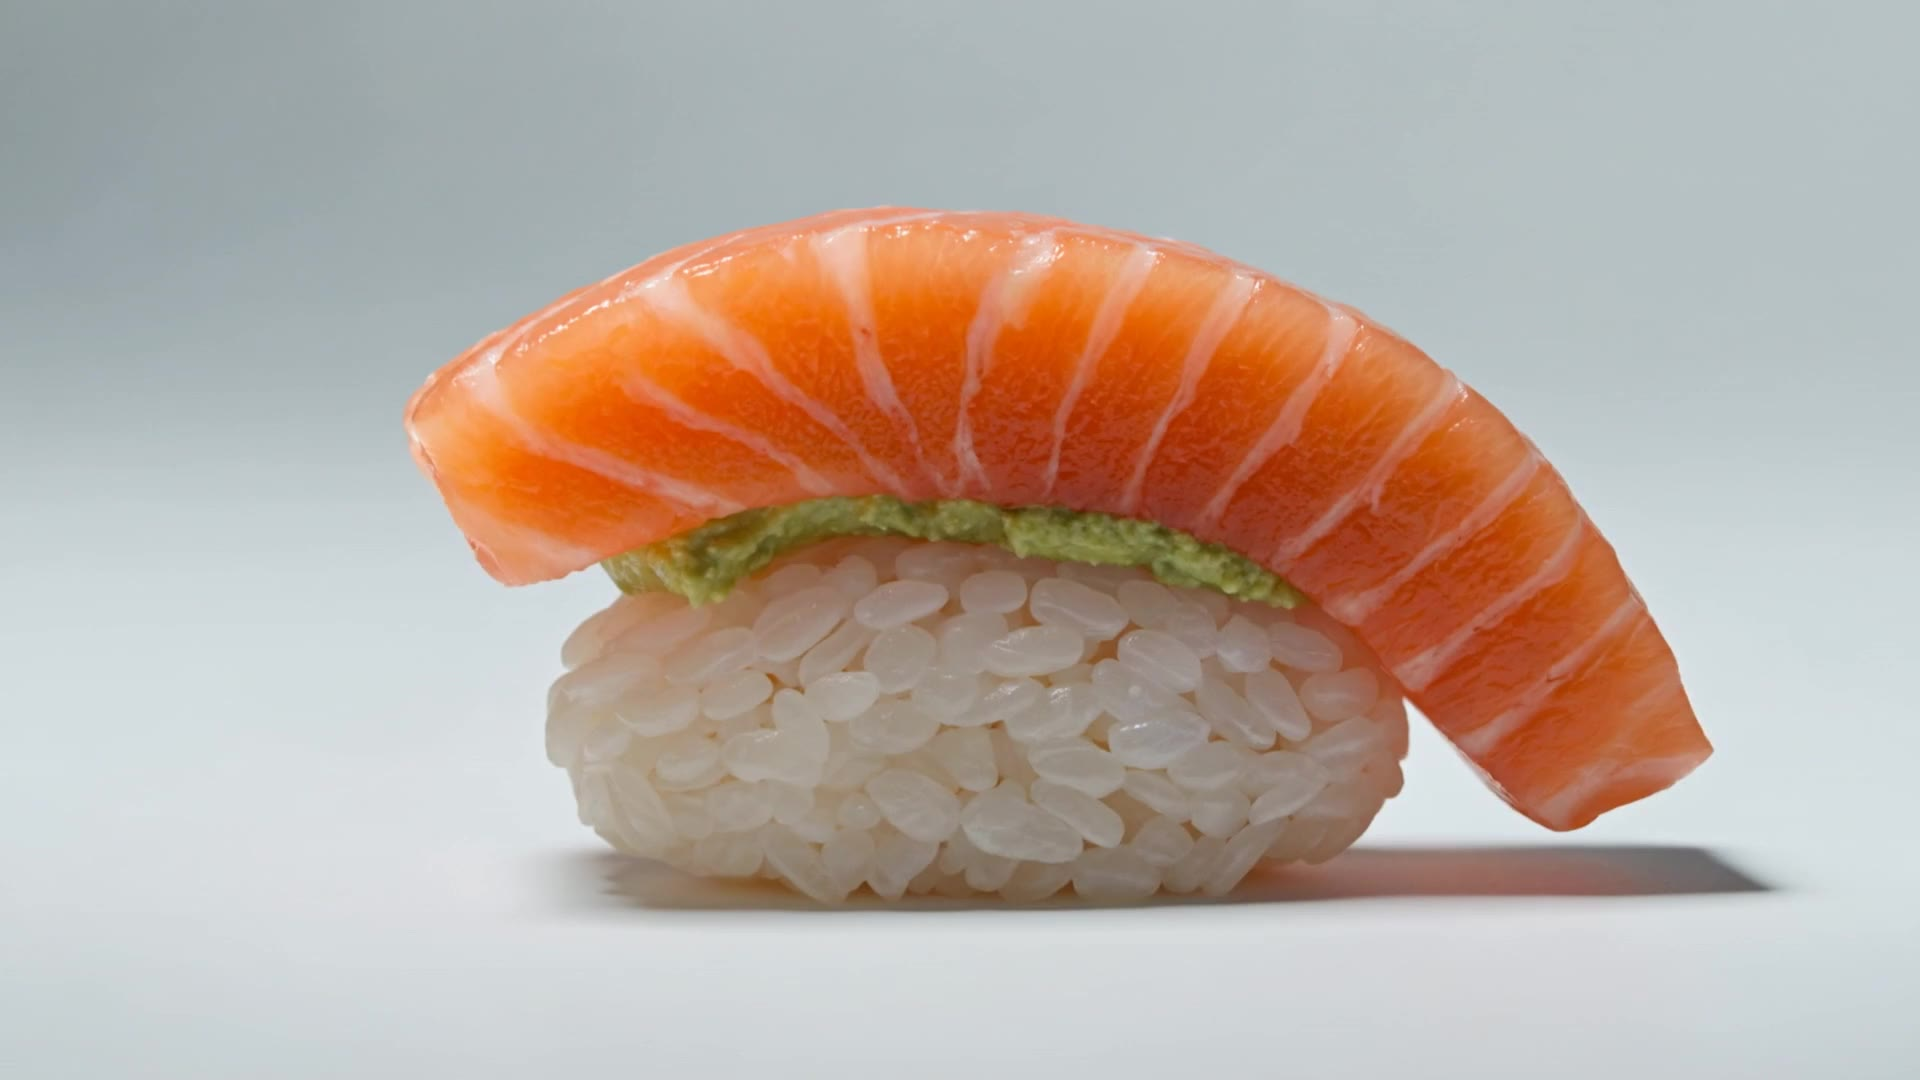
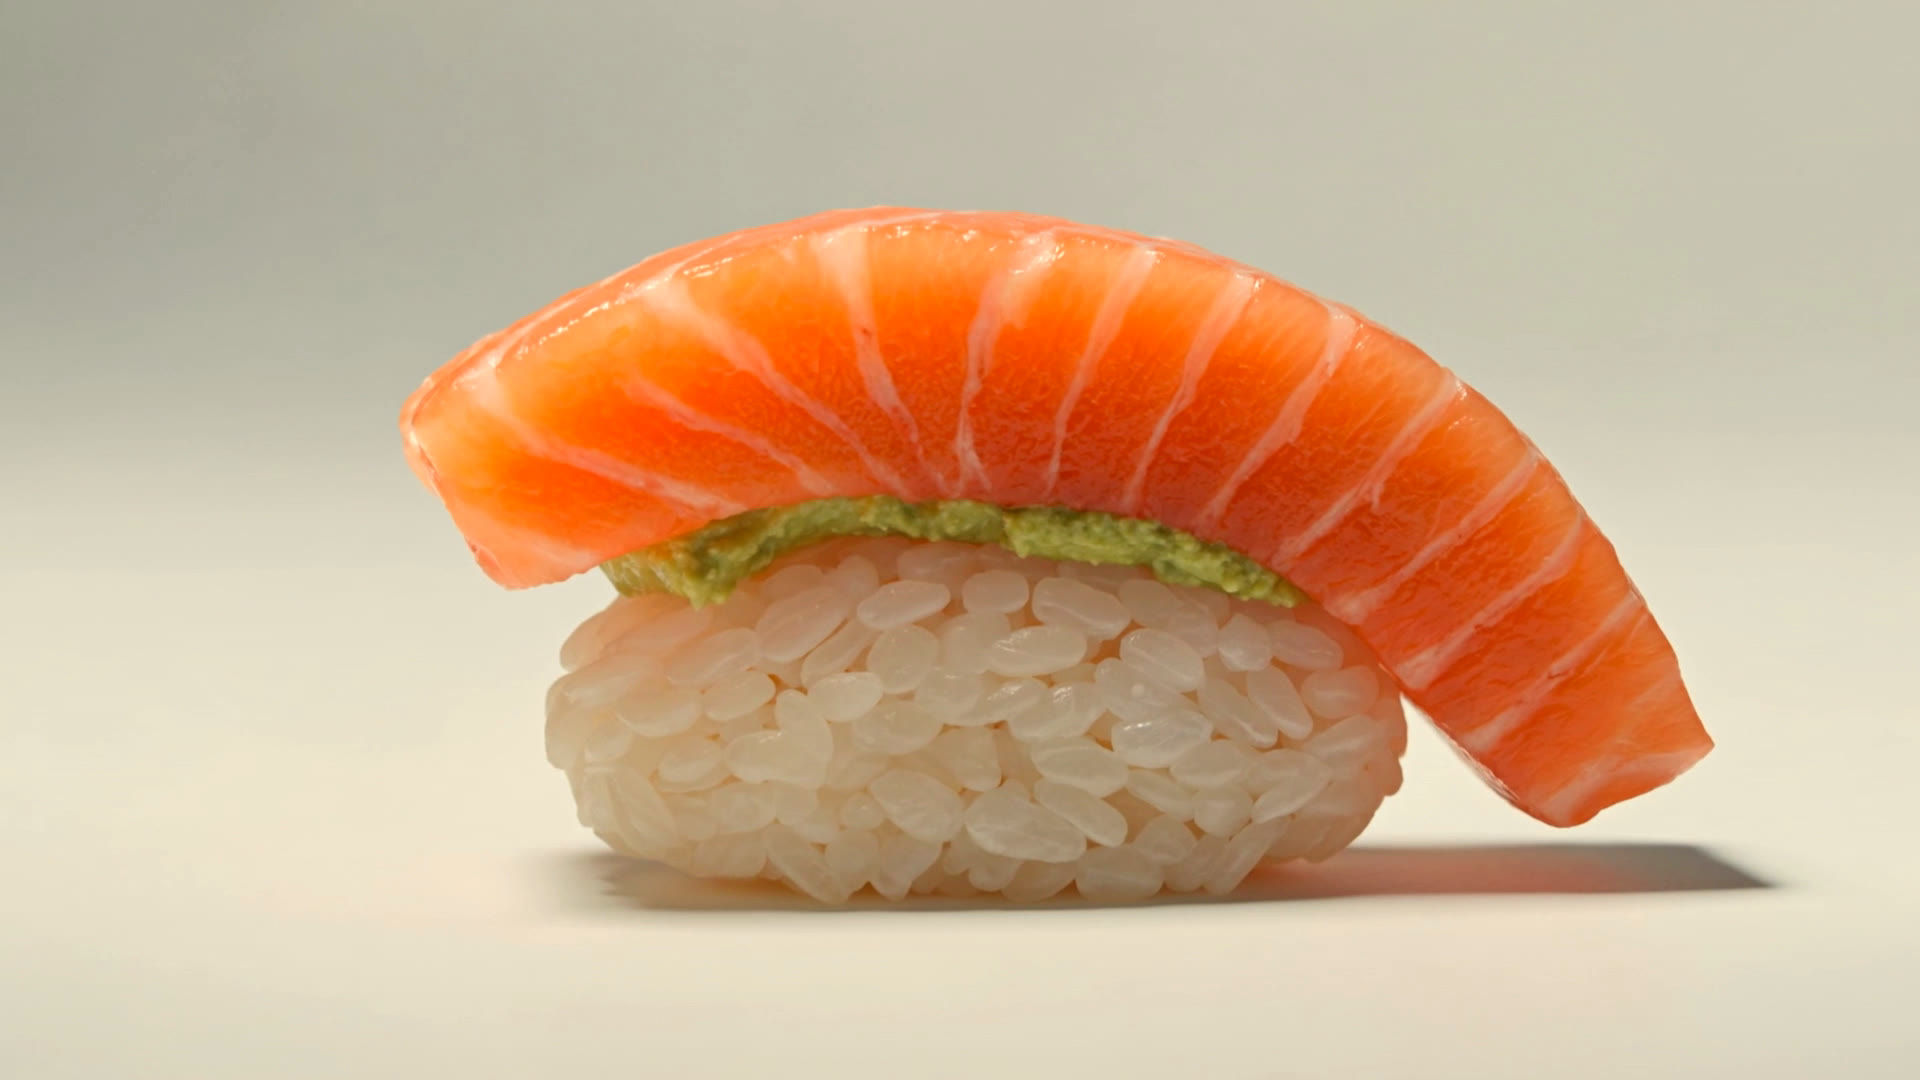
Warm-grade hero clip into paper palette; 1080p sharper; smoother scrub
Addresses feedback that the clip read as a cold, low-res, janky recording:
- Colour-grade every frame into the site's warm paper palette (cool studio grey
  -> warm ivory that matches --paper) while keeping the salmon vivid. Baked frame
  sequence (source untouched); folds the footage into the design language.
- Re-encode at full 1920x1080 (fixes softness) all-intra at 16fps (fewer distinct
  frames -> fewer scrub decodes) for a smoother, sharper result.
- Retune the #nigiri3d pool from grey to warm ivory so the panel stays cohesive
  and melts into the paper on every screen.
- Regenerate the poster from a graded frame.
- nigiri-hero.js: skip redundant same-frame seeks during scrub (half-frame
  threshold) to cut decode load and reduce stutter.

Claude-Session: https://claude.ai/code/session_0126WkQUsdtCfMoX4B5FHDJY

diff --git a/css/style.css b/css/style.css
@@ -1081,12 +1081,14 @@ details[open] .faq-x::after { background: var(--shu); }
 .nigiri3d.hero-blend { position: relative; height: 340vh; background: var(--paper); border-top: 0; }
 .hero-blend .n3-pin {
   position: sticky; top: 0; height: 100vh; min-height: 100vh; overflow: hidden;
-  /* studio pool tuned to THIS clip's backdrop (sampled from the file: a cool
-     neutral grey ~#b8bdba with a soft vignette). Three layers, painted back→front:
-       1. the grey pool itself — the clip's backdrop colour, so the feathered edge
-          of the clip melts into an identical grey with no seam on any screen;
+  /* warm pool tuned to THIS clip's GRADED backdrop (the footage is colour-graded
+     into the paper palette — the studio sweep now reads as a warm ivory ~#dcd6c6
+     brightening to ~#e6ddc4, sampled from the graded frames). Three layers, back→
+     front:
+       1. the warm pool itself — the clip's backdrop colour, so the feathered edge
+          of the clip melts into an identical warm tone with no seam on any screen;
        2. a soft top wash lifting the clip's slightly darker upper band back to the
-          pool grey (sits BEHIND the clip, so the sushi's pixels stay untouched);
+          pool tone (sits BEHIND the clip, so the sushi's pixels stay untouched);
        3. a top+bottom paper melt so the whole pinned panel dissolves into the
           paper sections above and below — never a rectangle sitting on the page. */
   background:
@@ -1094,10 +1096,10 @@ details[open] .faq-x::after { background: var(--shu); }
       var(--paper) 0%, rgba(242,237,226,0) 15%,
       rgba(242,237,226,0) 85%, var(--paper) 100%),
     radial-gradient(140% 56% at 50% -6%,
-      rgba(188,193,190,0.5) 0%, rgba(188,193,190,0) 58%),
-    radial-gradient(135% 120% at 50% 49%,
-      #bcc1be 0%, #b6bbb8 42%, #b1b5b2 60%, #bcbab1 72%,
-      #cfc9bc 82%, #e3ddd0 90%, var(--paper) 100%);
+      rgba(216,209,193,0.5) 0%, rgba(216,209,193,0) 58%),
+    radial-gradient(135% 122% at 50% 52%,
+      #ded8c8 0%, #d9d2c1 42%, #dcd5c5 60%, #e2dbcc 74%,
+      #eae3d5 84%, var(--paper) 98%);
 }
 /* The clip is sized to its OWN 16:9 box (never letterboxed inside a bigger frame):
    width/height resolve to whichever fits the pin, so the element edges ARE the clip

diff --git a/js/nigiri-hero.js b/js/nigiri-hero.js
@@ -71,7 +71,7 @@
 
     if (reduced) { setCaption(0); return; }   // hold on poster
 
-    var cur = 0, seeking = false;
+    var cur = 0, seeking = false, lastSet = -1;
     video.addEventListener("seeking", function () { seeking = true; });
     video.addEventListener("seeked", function () { seeking = false; });
 
@@ -103,7 +103,14 @@
       cur += (target - cur) * 0.2;
       if (Math.abs(target - cur) < 0.001) cur = target;
       if (!seeking && video.readyState >= 2) {
-        try { video.currentTime = clamp(cur, 0, duration - 0.001); } catch (e) {}
+        var want = clamp(cur, 0, duration - 0.001);
+        // The clip is all-intra at a modest frame rate, so seeking to a time
+        // inside the frame already shown just re-decodes the same picture and
+        // stutters. Only issue a new seek once we've moved ~half a frame away —
+        // far fewer decodes, much smoother scrub.
+        if (lastSet < 0 || Math.abs(want - lastSet) >= 0.028) {
+          try { video.currentTime = want; lastSet = want; } catch (e) {}
+        }
       }
       // detect "asked to scrub well past the start but frame is still at 0"
       if (target > 0.7 && video.currentTime < 0.12) {